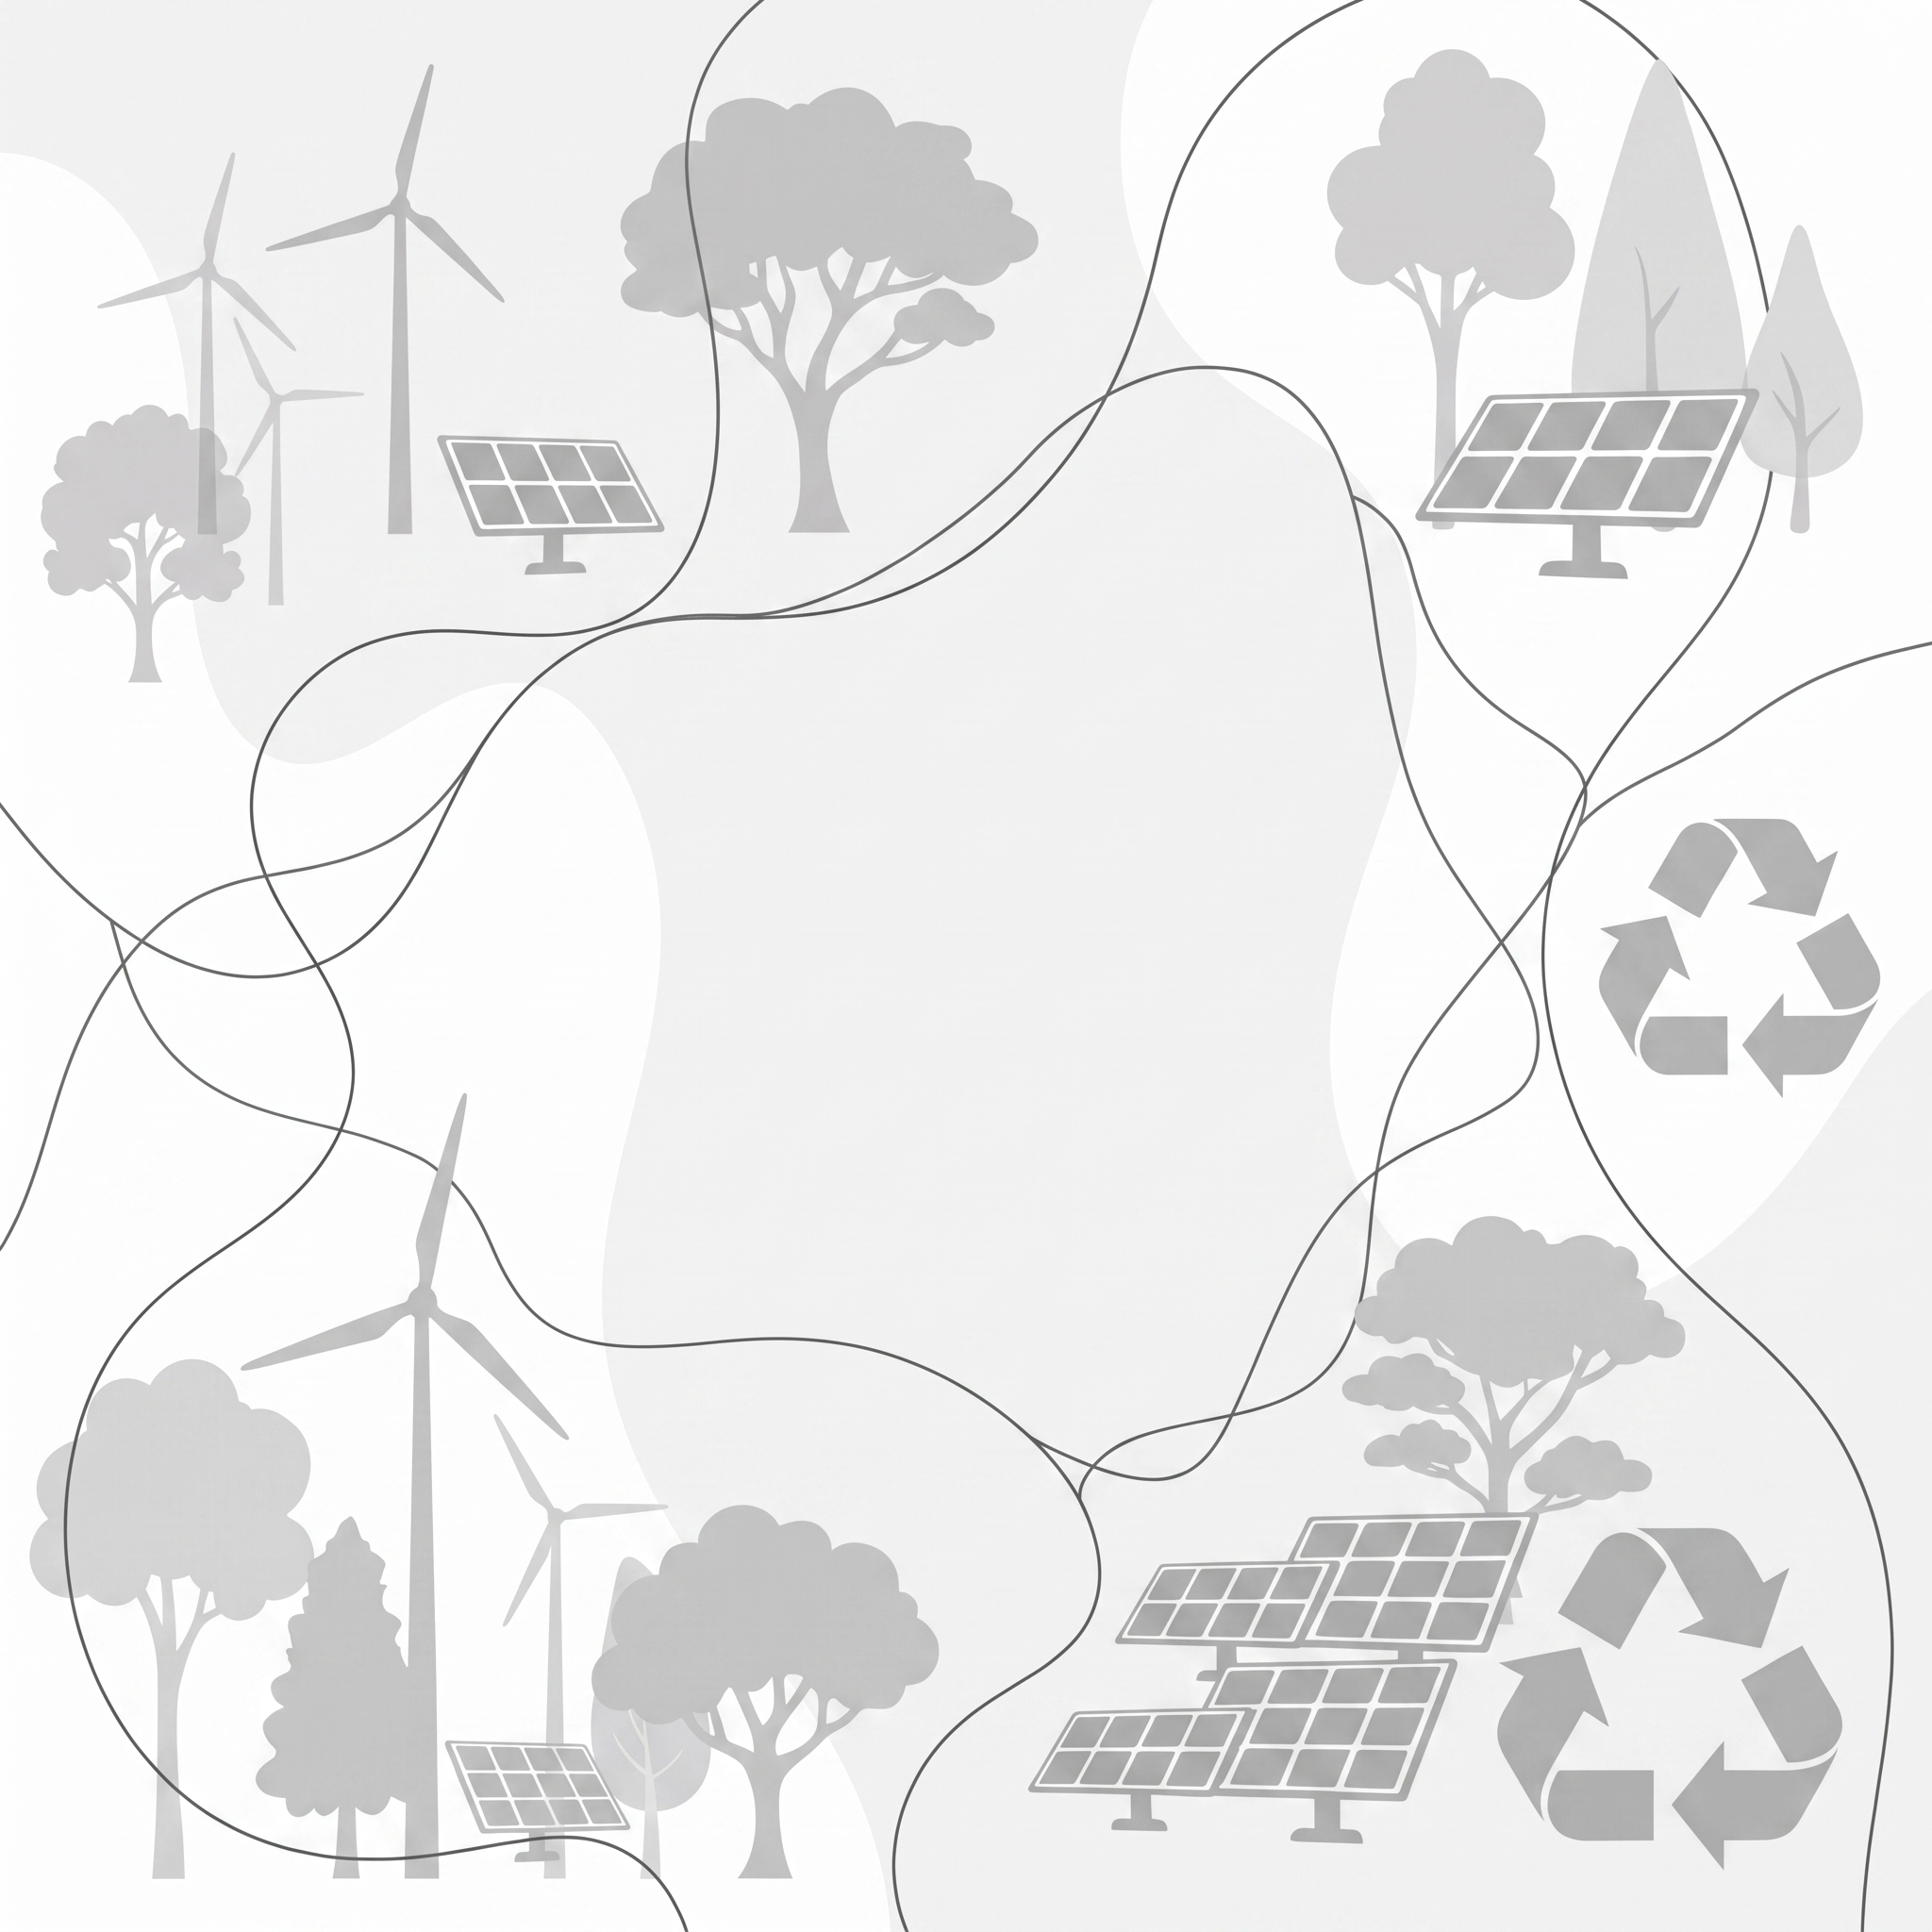
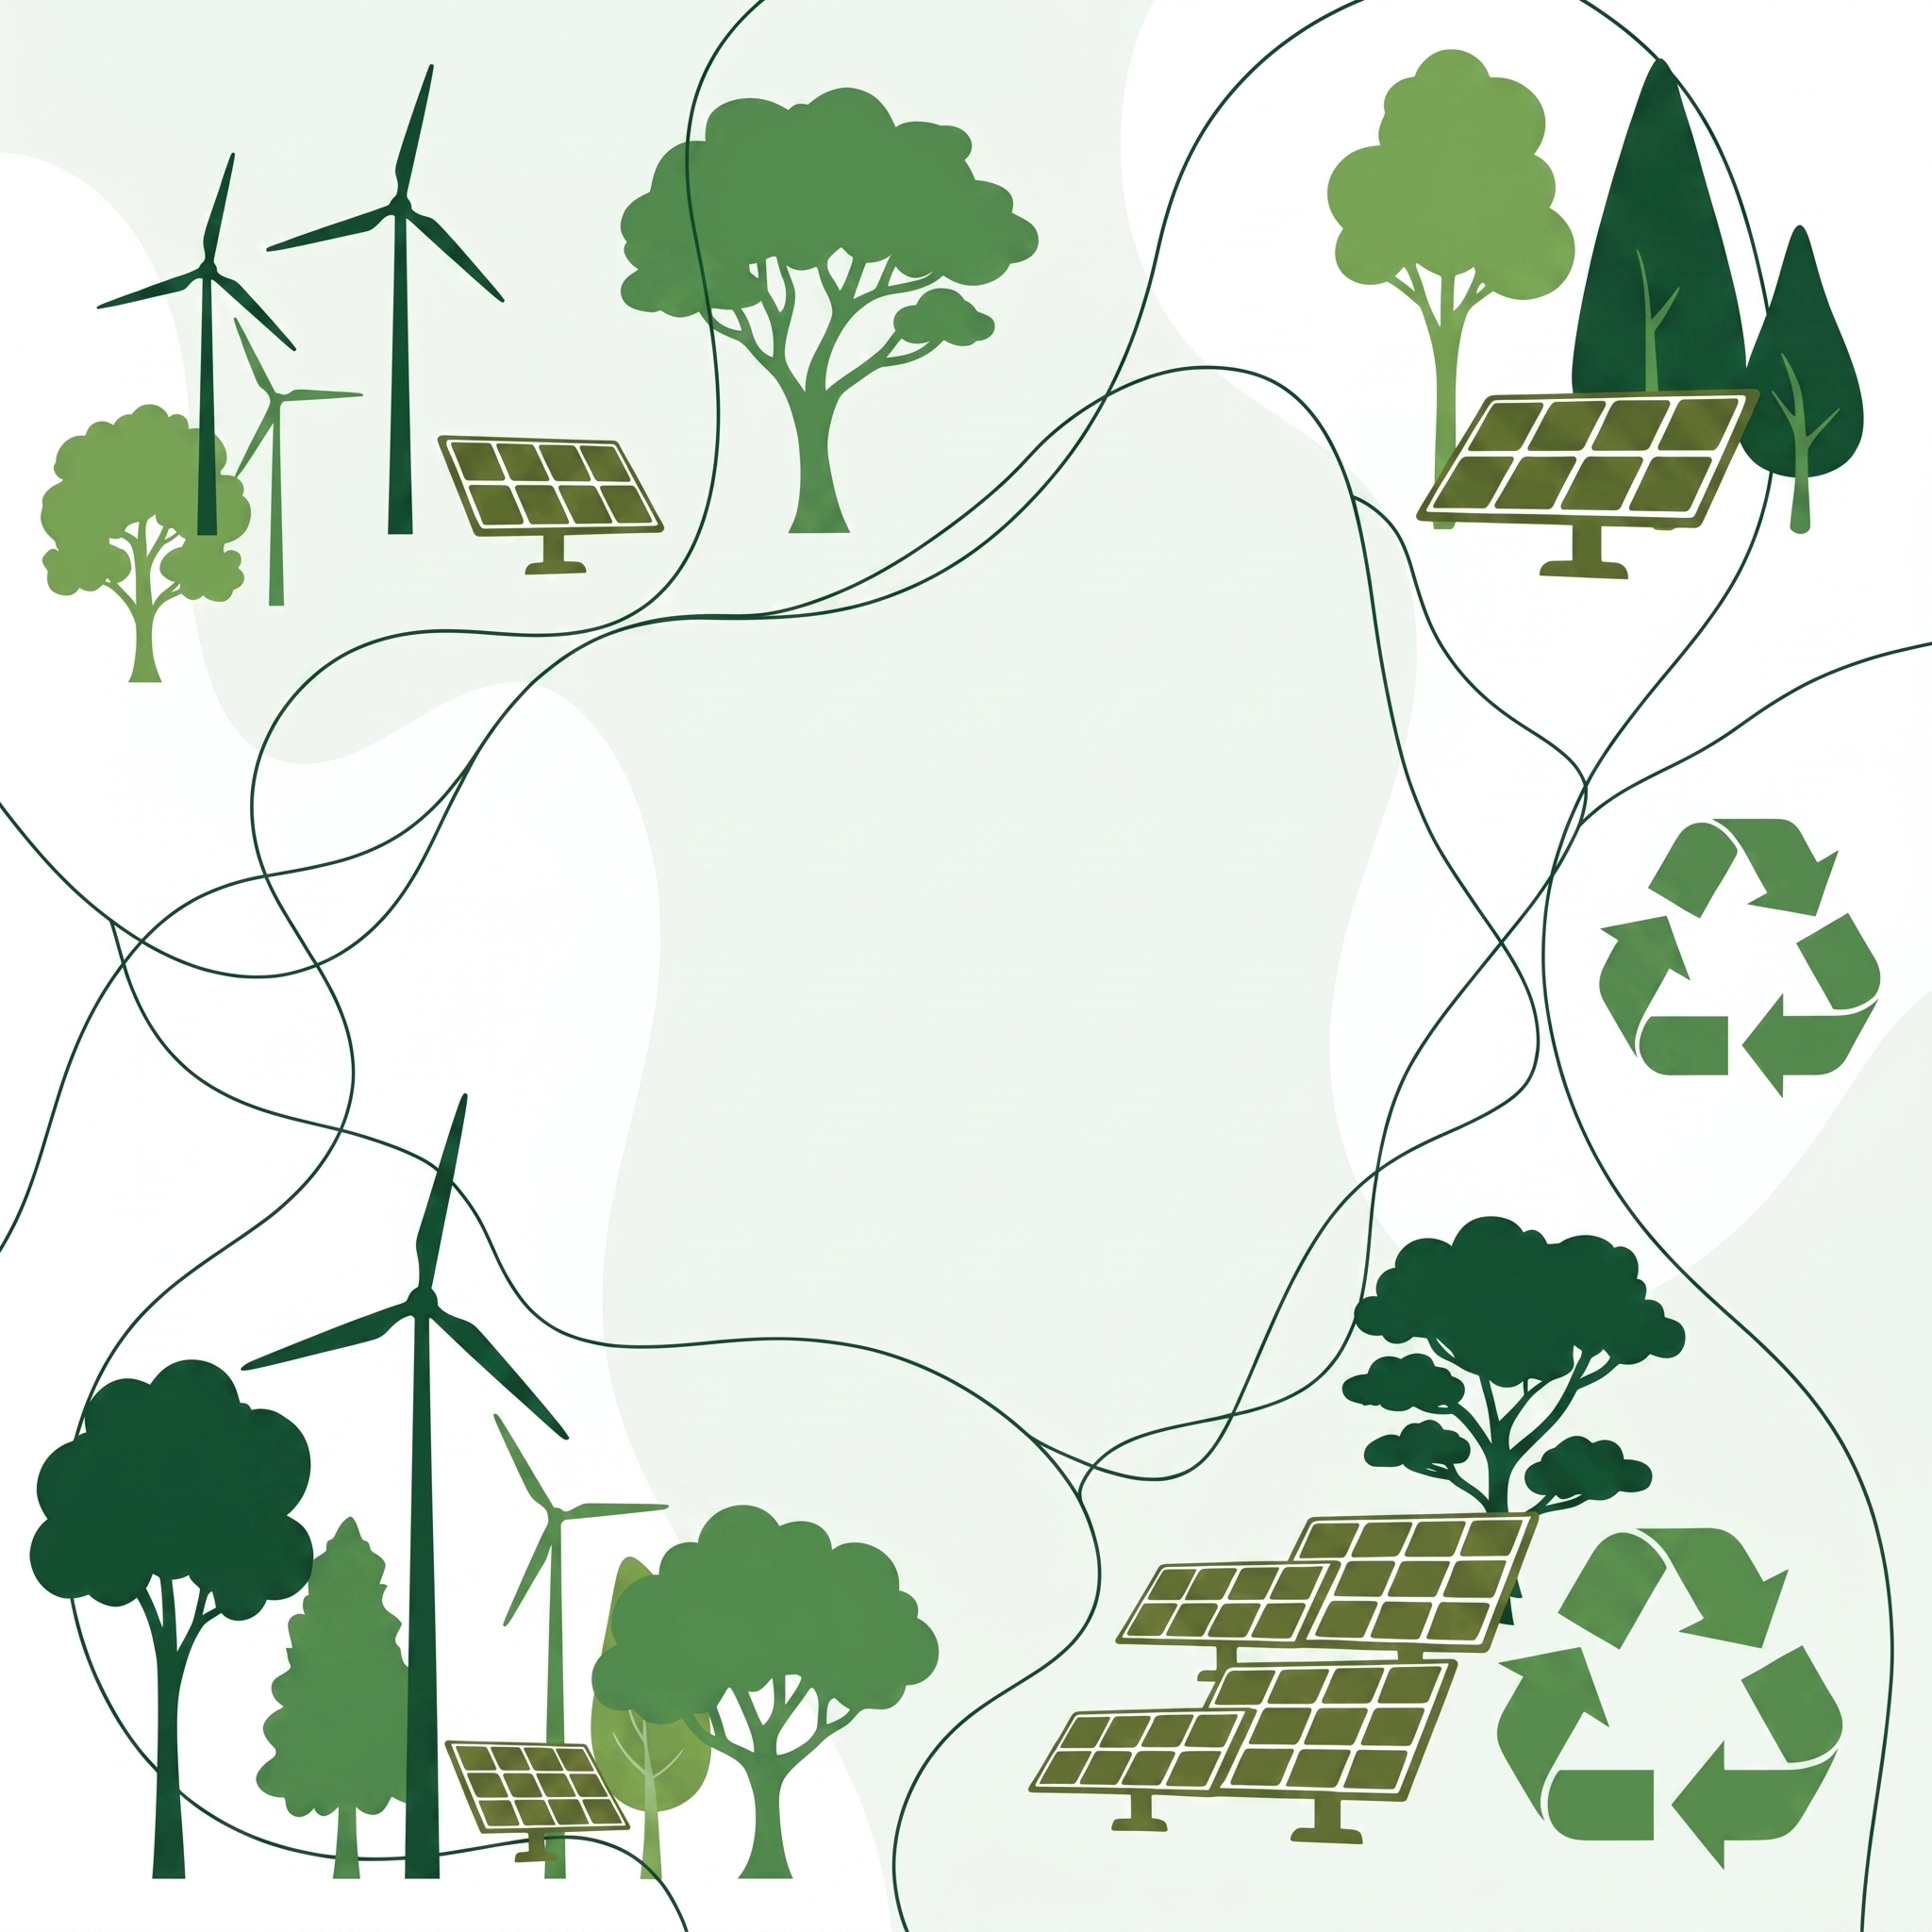
Nuevos estilos

diff --git a/src/components/Values.tsx b/src/components/Values.tsx
@@ -1,6 +1,7 @@
 import { motion } from 'motion/react';
 import { valuesData } from '../data';
 import { Heart, Scale, Sparkles, Award, Star } from 'lucide-react';
+import Reveal from './Reveal';
 
 export default function Values() {
   const getValueIcon = (name: string, colorClass: string = "text-brand-bosque") => {
@@ -53,9 +54,11 @@ export default function Values() {
       <div className="max-w-7xl mx-auto px-4 sm:px-6 lg:px-8 relative z-10">
         
         {/* Section Heading */}
-        <div className="flex items-start gap-4 mb-16">
-          <div className="w-1 self-stretch bg-brand-hoja rounded-full shrink-0" />
-          <div>
+        <Reveal className="flex flex-row mb-16 h-47.5 items-center">
+          <div className="h-full shrink-0 mr-2">
+            <img src="/src/public/sobre.png" alt="Filosofía de Trabajo" className="h-full w-auto object-cover rounded-2xl" />
+          </div>
+          <div className="px-4">
             <span className="text-xs font-semibold text-brand-hoja uppercase tracking-widest">
               Filosofía de Trabajo
             </span>
@@ -66,7 +69,7 @@ export default function Values() {
               Nuestra cultura empresarial se sostiene sobre bases éticas firmes, orientadas a la innovación constante y al cuidado responsable de la sociedad y del planeta.
             </p>
           </div>
-        </div>
+        </Reveal>
 
         {/* Values Grid */}
         <div className="grid grid-cols-1 sm:grid-cols-2 lg:grid-cols-4 gap-8">
@@ -116,22 +119,43 @@ export default function Values() {
           whileInView={{ opacity: 1, scale: 1 }}
           viewport={{ once: true }}
           transition={{ duration: 0.5 }}
-          className="mt-20 p-8 sm:p-10 rounded-3xl bg-gradient-to-br from-brand-bosque to-emerald-950 text-white text-center relative overflow-hidden shadow-xl"
+          className="mt-20 rounded-3xl bg-gradient-to-br from-brand-bosque to-emerald-950 text-white relative overflow-hidden shadow-xl"
         >
           {/* Background overlay circles */}
           <div className="absolute right-[-30px] bottom-[-30px] w-64 h-64 rounded-full bg-white/5 blur-xl" />
           <div className="absolute left-[-30px] top-[-30px] w-64 h-64 rounded-full bg-brand-claro/10 blur-xl" />
 
-          <div className="relative z-10 max-w-2xl mx-auto">
-            <span className="text-[10px] font-mono uppercase tracking-widest text-brand-claro">
-              Filosofía Organizacional
-            </span>
-            <p className="font-display italic text-lg sm:text-xl text-brand-claro/90 mt-4 leading-relaxed font-medium">
-              "No heredamos la tierra de nuestros antepasados, la tomamos prestada de nuestros hijos."
-            </p>
-            <p className="font-sans text-xs text-white/75 mt-3 uppercase tracking-wider">
-              — Principio Ambiental que Inspira Nuestra Labor Técnica
-            </p>
+          <div className="relative z-10 grid grid-cols-1 sm:grid-cols-[1fr_auto] items-end gap-8">
+            {/* Texto de la cita */}
+            <div className="p-8 sm:p-12">
+              {/* Comilla decorativa grande */}
+              <span className="font-display text-7xl sm:text-8xl leading-none text-brand-claro/30 select-none block -mb-6">
+                &ldquo;
+              </span>
+              <p className="font-display italic text-xl sm:text-2xl text-white leading-relaxed font-medium">
+                No heredamos la tierra de nuestros antepasados, la tomamos prestada de nuestros hijos.
+              </p>
+              <div className="flex items-center gap-3 mt-6">
+                <div className="w-10 h-0.5 bg-brand-claro/60 rounded-full" />
+                <p className="font-sans text-sm text-brand-claro font-semibold tracking-wide">
+                  Albert Einstein
+                </p>
+              </div>
+              <p className="font-sans text-[11px] text-white/60 mt-1 uppercase tracking-wider">
+                Principio que inspira nuestra labor técnica
+              </p>
+            </div>
+
+            {/* Foto de Albert Einstein integrada al borde */}
+            <motion.img
+              src="/src/public/albert.png"
+              alt="Albert Einstein"
+              initial={{ opacity: 0, y: 120 }}
+              whileInView={{ opacity: 1, y: 0 }}
+              viewport={{ once: true, margin: '-80px' }}
+              transition={{ duration: 0.7, ease: 'easeOut' }}
+              className="hidden sm:block h-64 w-auto object-contain object-bottom self-end drop-shadow-2xl"
+            />
           </div>
         </motion.div>
 

diff --git a/src/components/Reveal.tsx b/src/components/Reveal.tsx
@@ -1,0 +1,43 @@
+import { motion } from 'motion/react';
+import { ReactNode } from 'react';
+
+type Direction = 'up' | 'down' | 'left' | 'right';
+
+interface RevealProps {
+  children: ReactNode;
+  /** Dirección desde la que entra el elemento. Por defecto 'up'. */
+  direction?: Direction;
+  /** Retraso en segundos antes de iniciar. */
+  delay?: number;
+  /** Duración de la animación en segundos. */
+  duration?: number;
+  className?: string;
+}
+
+const offset: Record<Direction, { x: number; y: number }> = {
+  up: { x: 0, y: 40 },
+  down: { x: 0, y: -40 },
+  left: { x: 40, y: 0 },
+  right: { x: -40, y: 0 },
+};
+
+export default function Reveal({
+  children,
+  direction = 'up',
+  delay = 0,
+  duration = 0.6,
+  className,
+}: RevealProps) {
+  const { x, y } = offset[direction];
+  return (
+    <motion.div
+      initial={{ opacity: 0, x, y }}
+      whileInView={{ opacity: 1, x: 0, y: 0 }}
+      viewport={{ once: true, margin: '-60px' }}
+      transition={{ duration, delay, ease: 'easeOut' }}
+      className={className}
+    >
+      {children}
+    </motion.div>
+  );
+}

diff --git a/src/components/Contact.tsx b/src/components/Contact.tsx
@@ -2,6 +2,7 @@ import { useState, ChangeEvent, FormEvent } from 'react';
 import { motion, AnimatePresence } from 'motion/react';
 import { Phone, Mail, MapPin, Clock, Send, CheckCircle2, Building2, ShieldCheck, AlertCircle, RefreshCw } from 'lucide-react';
 import { ContactFormData } from '../types';
+import Reveal from './Reveal';
 
 export default function Contact() {
   const [formData, setFormData] = useState<ContactFormData>({
@@ -110,9 +111,11 @@ export default function Contact() {
       <div className="max-w-7xl mx-auto px-4 sm:px-6 lg:px-8 relative z-10">
         
         {/* Section Heading */}
-        <div className="flex items-start gap-4 mb-16">
-          <div className="w-1 self-stretch bg-brand-hoja rounded-full shrink-0" />
-          <div>
+        <Reveal className="flex flex-row mb-16 h-47.5 items-center">
+          <div className="h-full shrink-0 mr-2">
+            <img src="/src/public/sobre.png" alt="Canales de Atención" className="h-full w-auto object-cover rounded-2xl" />
+          </div>
+          <div className="px-4">
             <span className="text-xs font-semibold text-brand-hoja uppercase tracking-widest">
               Canales de Atención
             </span>
@@ -123,12 +126,12 @@ export default function Contact() {
               Póngase en contacto con nuestros ingenieros especialistas. Le responderemos en menos de 24 horas laborables.
             </p>
           </div>
-        </div>
+        </Reveal>
 
         <div className="grid grid-cols-1 lg:grid-cols-12 gap-12 lg:gap-16 items-start">
           
           {/* Left Column: Contact Channels & Map Mockup (5 cols) */}
-          <div className="lg:col-span-5 space-y-8">
+          <Reveal direction="right" className="lg:col-span-5 space-y-8">
             <div className="bg-white rounded-3xl p-6 sm:p-8 border border-slate-100 shadow-sm space-y-6">
               <h3 className="font-display font-bold text-xl text-brand-bosque mb-2">
                 Información Corporativa
@@ -203,10 +206,10 @@ export default function Contact() {
               </div>
             </div>
 
-          </div>
+          </Reveal>
 
           {/* Right Column: Interactive Feedback Contact Form (7 cols) */}
-          <div className="lg:col-span-7 bg-white rounded-3xl p-6 sm:p-10 border border-slate-100 shadow-sm relative overflow-hidden">
+          <Reveal direction="left" delay={0.1} className="lg:col-span-7 bg-white rounded-3xl p-6 sm:p-10 border border-slate-100 shadow-sm relative overflow-hidden">
             <img
               src="/src/public/formulariof.jpeg"
               alt=""
@@ -470,12 +473,12 @@ export default function Contact() {
                 </motion.div>
               )}
             </AnimatePresence>
-          </div>
+          </Reveal>
 
         </div>
 
         {/* Google Maps — ancho completo */}
-        <div className="mt-12 rounded-3xl overflow-hidden border border-slate-100 shadow-sm w-full h-80">
+        <Reveal direction="up" delay={0.1} className="mt-12 rounded-3xl overflow-hidden border border-slate-100 shadow-sm w-full h-80">
           <iframe
             title="Ubicación AmbientalMente LV"
             src="https://www.google.com/maps/embed?pb=!1m18!1m12!1m3!1d3897.0!2d-78.5148!3d-7.1638!2m3!1f0!2f0!3f0!3m2!1i1024!2i768!4f13.1!3m3!1m2!1s0x0%3A0x0!2sJr.+Villa+Tres+Molinos+Mz.+C+Lote+16+E%2C+Cajamarca%2C+Per%C3%BA!5e0!3m2!1ses!2spe!4v1"
@@ -486,7 +489,7 @@ export default function Contact() {
             loading="lazy"
             referrerPolicy="no-referrer-when-downgrade"
           />
-        </div>
+        </Reveal>
 
       </div>
     </section>

diff --git a/src/components/AboutUs.tsx b/src/components/AboutUs.tsx
@@ -1,5 +1,6 @@
 import { useState } from 'react';
 import { motion, AnimatePresence } from 'motion/react';
+import Reveal from './Reveal';
 import { statsData } from '../data';
 import { Target, Eye, Compass, Shield, Users, Leaf, ArrowRight } from 'lucide-react';
 import * as LucideIcons from 'lucide-react';
@@ -54,7 +55,7 @@ export default function AboutUs() {
       <div className="max-w-7xl mx-auto px-4 sm:px-6 lg:px-8 relative z-10">
         
         {/* Section Heading */}
-    <div className="flex flex-row mb-16  h-47.5 items-center">
+    <Reveal className="flex flex-row mb-16  h-47.5 items-center">
 
 
   {/* Imagen */}
@@ -84,10 +85,10 @@ export default function AboutUs() {
       para el sector privado y público.
     </p>
   </div>
-</div>
+</Reveal>
 
         {/* Dynamic Interactive Tabs Layout */}
-        <div className="grid grid-cols-1 lg:grid-cols-12 gap-12 items-center mb-24">
+        <Reveal direction="up" delay={0.1} className="grid grid-cols-1 lg:grid-cols-12 gap-12 items-center mb-24">
           
           {/* Left Column: Interactive Nav / Buttons */}
           <div className="lg:col-span-4 flex flex-col gap-4">
@@ -171,18 +172,18 @@ export default function AboutUs() {
             </AnimatePresence>
           </div>
 
-        </div>
+        </Reveal>
 
         {/* Corporate Metrics (Stats Grid) */}
         <div className="border-t border-slate-100 pt-20">
-          <div className="text-center max-w-xl mx-auto mb-12">
+          <Reveal className="text-center max-w-xl mx-auto mb-12">
             <h3 className="font-display font-bold text-lg text-brand-bosque uppercase tracking-widest">
               El Planeta en Cifras
             </h3>
             <p className="font-sans text-xs text-slate-400 mt-1 uppercase tracking-wide">
               Datos reales que impulsan nuestra razón de existir
             </p>
-          </div>
+          </Reveal>
 
           <div className="grid grid-cols-1 sm:grid-cols-2 lg:grid-cols-4 gap-6">
             {statsData.map((stat, idx) => (
@@ -191,9 +192,10 @@ export default function AboutUs() {
                 id={`stat-card-${stat.id}`}
                 initial={{ opacity: 0, y: 24 }}
                 whileInView={{ opacity: 1, y: 0 }}
-                viewport={{ once: true, margin: '-50px' }}
-                transition={{ duration: 0.5, delay: idx * 0.1 }}
-                className="group relative overflow-hidden rounded-2xl min-h-[360px] flex flex-col justify-end shadow-md hover:shadow-2xl hover:-translate-y-1.5 transition-all duration-500 cursor-default"
+                viewport={{ once: true, margin: '-60px' }}
+                transition={{ duration: 0.6, delay: idx * 0.12, ease: 'easeOut' }}
+                whileHover={{ y: -6 }}
+                className="group relative overflow-hidden rounded-2xl min-h-[360px] flex flex-col justify-end shadow-md hover:shadow-2xl transition-shadow duration-500 cursor-default"
               >
                 {/* Foto del tema, siempre visible y nítida */}
                 <img

diff --git a/src/components/Footer.tsx b/src/components/Footer.tsx
@@ -1,5 +1,6 @@
 import { MouseEvent } from 'react';
 import { ArrowUp, Mail, Phone, MapPin, Globe, ExternalLink } from 'lucide-react';
+import Reveal from './Reveal';
 
 export default function Footer() {
   const handleScrollToTop = (e: MouseEvent<HTMLButtonElement>) => {
@@ -42,7 +43,7 @@ export default function Footer() {
         <div className="grid grid-cols-1 md:grid-cols-3 gap-12 py-16 border-b border-white/10">
 
           {/* Col 1: Info de contacto */}
-          <div className="space-y-6">
+          <Reveal direction="up" className="space-y-6">
             <div>
               <h3 className="font-display font-bold text-base text-white mb-1">AmbientalMente LV E.I.R.L.</h3>
               <p className="text-[11px] text-brand-claro/70 font-mono">RUC: 20614968665</p>
@@ -74,10 +75,10 @@ export default function Footer() {
                 </a>
               </li>
             </ul>
-          </div>
+          </Reveal>
 
           {/* Col 2: Navegación */}
-          <div className="space-y-5">
+          <Reveal direction="up" delay={0.1} className="space-y-5">
             <h4 className="font-display font-bold text-xs uppercase tracking-widest text-brand-claro">
               Navegación
             </h4>
@@ -94,10 +95,10 @@ export default function Footer() {
                 </li>
               ))}
             </ul>
-          </div>
+          </Reveal>
 
           {/* Col 3: Enlaces legales */}
-          <div className="space-y-5">
+          <Reveal direction="up" delay={0.2} className="space-y-5">
             <h4 className="font-display font-bold text-xs uppercase tracking-widest text-brand-claro">
               Organismos Reguladores
             </h4>
@@ -116,7 +117,7 @@ export default function Footer() {
                 </li>
               ))}
             </ul>
-          </div>
+          </Reveal>
 
         </div>
 

diff --git a/src/components/Services.tsx b/src/components/Services.tsx
@@ -1,5 +1,6 @@
 import { motion } from 'motion/react';
 import { servicesData } from '../data';
+import Reveal from './Reveal';
 import {
   ArrowUpRight, ArrowRight,
   Truck, Gauge, FileText, Droplets, GraduationCap,
@@ -111,9 +112,11 @@ export default function Services() {
       <div className="max-w-7xl mx-auto px-4 sm:px-6 lg:px-8 relative z-10">
 
         {/* Section Header */}
-        <div className="flex items-start gap-4 mb-16">
-          <div className="w-1 self-stretch bg-brand-hoja rounded-full shrink-0" />
-          <div>
+        <Reveal className="flex flex-row mb-16 h-47.5 items-center">
+          <div className="h-full shrink-0 mr-2">
+            <img src="/src/public/sobre01.png" alt="Nuestros Servicios" className="h-full w-auto object-cover rounded-2xl" />
+          </div>
+          <div className="px-4">
             <span className="text-xs font-semibold text-brand-hoja uppercase tracking-widest">
               Nuestros Servicios
             </span>
@@ -124,7 +127,7 @@ export default function Services() {
               Abordamos de forma integral las necesidades ambientales de su empresa, asegurando el estricto cumplimiento normativo y promoviendo la sostenibilidad.
             </p>
           </div>
-        </div>
+        </Reveal>
 
         {/* Cards Grid */}
         <div className="grid grid-cols-1 md:grid-cols-2 lg:grid-cols-3 gap-6">

diff --git a/src/components/BrandApplications.tsx b/src/components/BrandApplications.tsx
@@ -2,6 +2,7 @@ import { useState } from 'react';
 import { motion, AnimatePresence } from 'motion/react';
 import { brandAppsData } from '../data';
 import { Truck, FileSpreadsheet, Shirt, Trash, Check, QrCode } from 'lucide-react';
+import Reveal from './Reveal';
 
 export default function BrandApplications() {
   const [activeAppId, setActiveAppId] = useState<string>('app-truck');
@@ -29,7 +30,7 @@ export default function BrandApplications() {
       <div className="max-w-7xl mx-auto px-4 sm:px-6 lg:px-8 relative z-10">
         
         {/* Section Heading */}
-        <div className="flex items-start gap-4 mb-16">
+        <Reveal className="flex items-start gap-4 mb-16">
           <div className="w-1 self-stretch bg-brand-hoja rounded-full shrink-0" />
           <div>
             <span className="text-xs font-semibold text-brand-hoja uppercase tracking-widest">
@@ -42,7 +43,7 @@ export default function BrandApplications() {
               Diseñamos cada punto de contacto con disciplina técnica y un alto estándar estético. Vea cómo se despliega nuestra identidad corporativa en el mundo real.
             </p>
           </div>
-        </div>
+        </Reveal>
 
         {/* Tab Selectors (Horizontal list on desktop, scrollable on mobile) */}
         <div className="flex overflow-x-auto pb-4 sm:pb-0 sm:justify-center gap-3 mb-12 scrollbar-none">
@@ -67,7 +68,7 @@ export default function BrandApplications() {
         </div>
 
         {/* Split Grid: Interactive Custom CSS Mockup & Text Description */}
-        <div className="grid grid-cols-1 lg:grid-cols-12 gap-12 items-center bg-slate-50 rounded-3xl p-6 sm:p-10 border border-slate-100 shadow-inner">
+        <Reveal direction="up" delay={0.1} className="grid grid-cols-1 lg:grid-cols-12 gap-12 items-center bg-slate-50 rounded-3xl p-6 sm:p-10 border border-slate-100 shadow-inner">
           
           {/* Left Column: Interactive, High-Fidelity CSS Drawing (Mockups) */}
           <div className="lg:col-span-7 flex items-center justify-center min-h-[380px] w-full bg-white rounded-2xl border border-slate-100 shadow-sm relative overflow-hidden p-4 sm:p-8">
@@ -305,7 +306,7 @@ export default function BrandApplications() {
             </AnimatePresence>
           </div>
 
-        </div>
+        </Reveal>
 
       </div>
     </section>